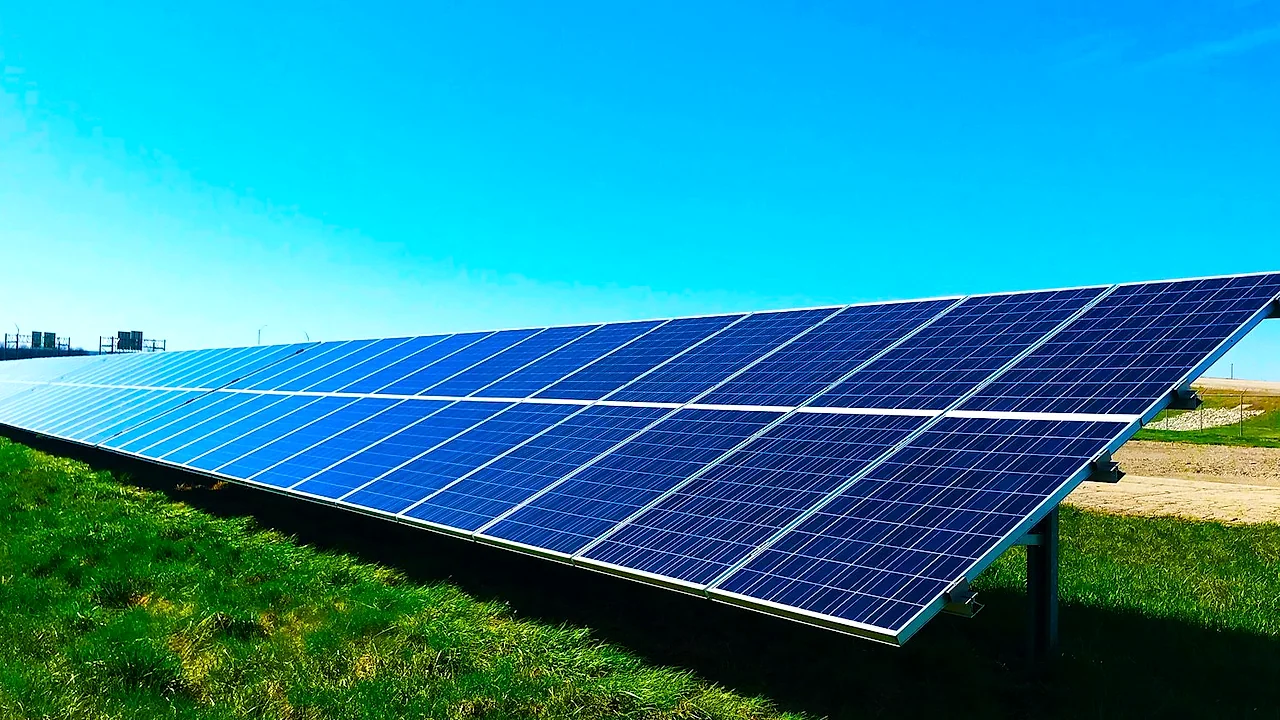
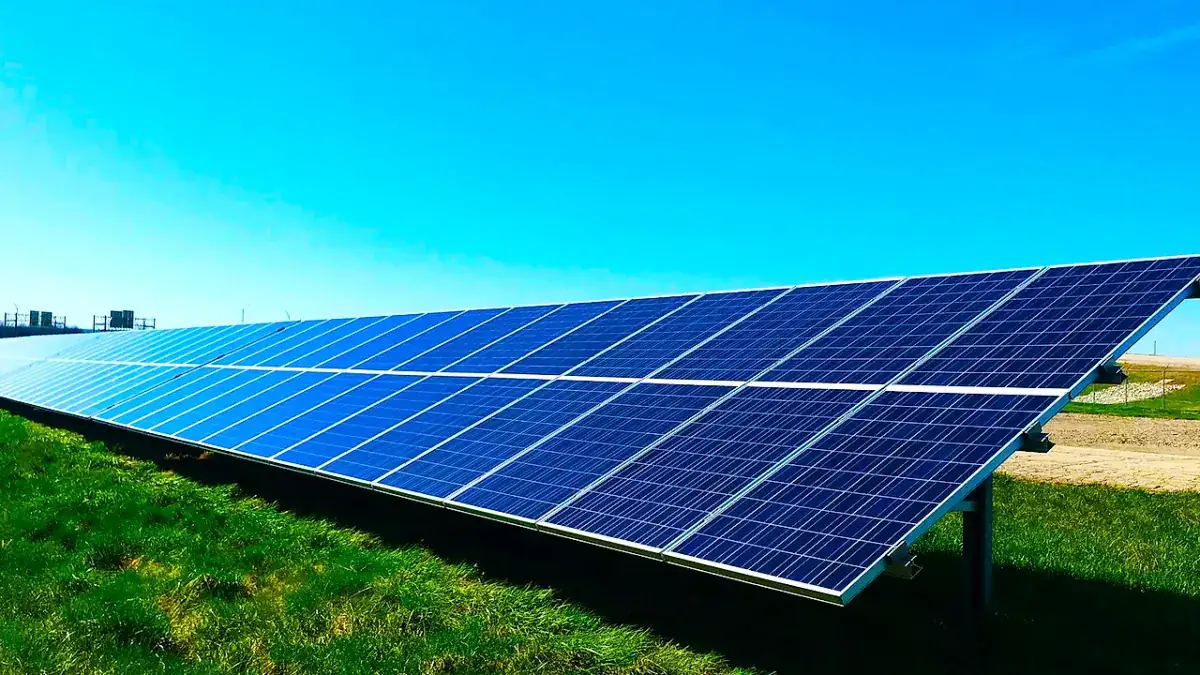
Perf: lock 16:9 image dimensions (1200x675) to eliminate CLS, compress WebP images, non-blocking font load

Changed region(s): [[0.2775, 0.9022, 0.3083, 0.9333]]

diff --git a/src/styles/global.css b/src/styles/global.css
@@ -3,6 +3,15 @@
    100% Scandi-European Light Aesthetic · Zero Black · Zero Clutter
    ========================================================================== */
 
+@font-face {
+  font-family: 'Barlow Condensed Fallback';
+  src: local('Arial Narrow'), local('HelveticaNeue-CondensedBold'), local('Roboto Condensed'), local('Arial'), local('sans-serif');
+  size-adjust: 83%;
+  ascent-override: 102%;
+  descent-override: 22%;
+  line-gap-override: 0%;
+}
+
 :root {
   --bg-white: #ffffff;
   --bg-soft: #f6f7f9;
@@ -23,7 +32,7 @@
   --border-hairline: #e6e8ec;
   --border-button: #cfd4dc;
 
-  --font-condensed: 'Barlow Condensed', -apple-system, BlinkMacSystemFont, sans-serif;
+  --font-condensed: 'Barlow Condensed', 'Barlow Condensed Fallback', -apple-system, BlinkMacSystemFont, sans-serif;
   --font-sans: 'Inter', -apple-system, BlinkMacSystemFont, sans-serif;
 
   --container-wide: 1380px;
@@ -1112,6 +1121,14 @@ button, input, select, textarea {
   overflow: hidden;
   margin: 32px 0;
   background: var(--bg-soft);
+}
+
+.editorial-photo img {
+  width: 100%;
+  height: auto;
+  aspect-ratio: 16 / 9;
+  object-fit: cover;
+  display: block;
 }
 
 .editorial-photo figcaption {
